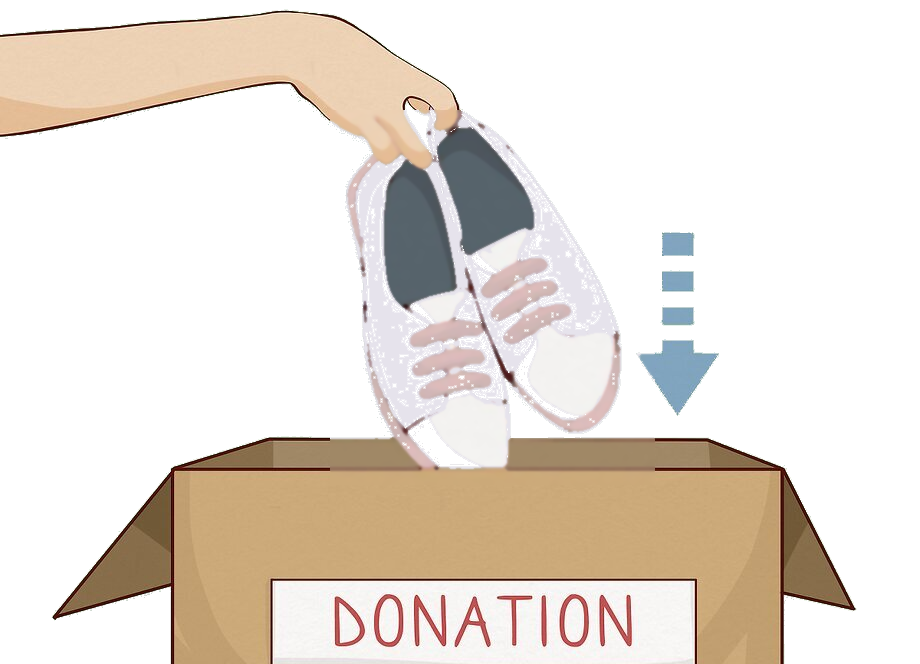
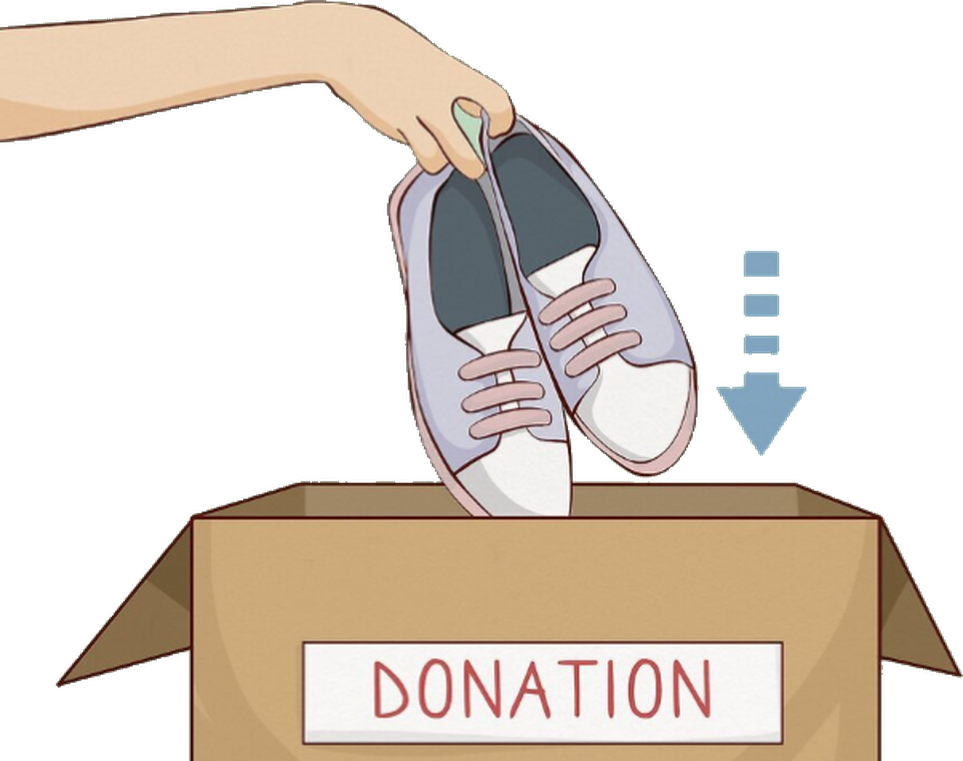
fix(spashoes): Peinture — retrait de la photo brun→noir (non dézoomable) ; illustration Don — fond vert détouré, chaussures pleines et uniformes (plus de trous)

Changed region(s): [[0.0, 0.0, 1.0, 1.0]]

diff --git a/spashoes/index.html b/spashoes/index.html
@@ -14,7 +14,7 @@
   <title>Spapoursouliers — Nettoyage, restauration &amp; cordonnerie de chaussures à Montréal</title>
   <meta name="description" content="Spa pour chaussures dans le Grand Montréal : nettoyage en profondeur, restauration, teinture et cordonnerie. Ramassage et livraison inclus. 438-449-9422." />
   <meta name="theme-color" content="#163f63" />
-  <link rel="icon" type="image/svg+xml" href="favicon.svg?v=53" />
+  <link rel="icon" type="image/svg+xml" href="favicon.svg?v=54" />
   <!-- Partage social (Open Graph + Twitter) -->
   <meta property="og:type" content="website" />
   <meta property="og:site_name" content="Spapoursouliers" />
@@ -37,7 +37,7 @@
   <link rel="preconnect" href="https://fonts.gstatic.com" crossorigin />
   <link rel="preconnect" href="https://d8j0ntlcm91z4.cloudfront.net" />
   <link href="https://fonts.googleapis.com/css2?family=Fraunces:ital,opsz,wght@0,9..144,300;0,9..144,400;0,9..144,500;0,9..144,600;1,9..144,300;1,9..144,400;1,9..144,500&family=Plus+Jakarta+Sans:wght@300;400;500;600;700&display=swap" rel="stylesheet" />
-  <link rel="stylesheet" href="styles.css?v=53" />
+  <link rel="stylesheet" href="styles.css?v=54" />
   <!-- Données structurées : référencement local (Google) -->
   <script type="application/ld+json">
   {
@@ -194,7 +194,7 @@
   <header class="site-header" id="top">
     <div class="container header-inner">
       <a href="#about" class="brand" aria-label="Spapoursouliers — notre histoire">
-        <img class="brand-logo" src="assets/img/logo.png?v=53" alt="" aria-hidden="true" width="2044" height="1144" />
+        <img class="brand-logo" src="assets/img/logo.png?v=54" alt="" aria-hidden="true" width="2044" height="1144" />
         <span class="brand-text">Spa<span class="brand-accent">poursouliers</span></span>
       </a>
 
@@ -248,10 +248,10 @@
           <div class="hero-shoes-bob">
             <span class="hero-shoes-radiance" aria-hidden="true"></span>
             <span class="hero-shoes-glow" aria-hidden="true"></span>
-            <div class="shoe shoe-main"><img src="assets/img/hero-product.png?v=53" alt="Paire de souliers vernis impeccables" data-i18n-alt="hero.alt" fetchpriority="high" /></div>
+            <div class="shoe shoe-main"><img src="assets/img/hero-product.png?v=54" alt="Paire de souliers vernis impeccables" data-i18n-alt="hero.alt" fetchpriority="high" /></div>
             <span class="hero-shoes-caustic" aria-hidden="true"></span>
             <span class="hero-shoes-bloom" aria-hidden="true"></span>
-            <img class="hero-shoes-refl" src="assets/img/hero-product.png?v=53" alt="" aria-hidden="true" />
+            <img class="hero-shoes-refl" src="assets/img/hero-product.png?v=54" alt="" aria-hidden="true" />
           </div>
         </div>
         <!-- Étincelles marines / poussière d'or qui flottent (canvas léger) -->
@@ -297,7 +297,7 @@
         <!-- Gauche : notre histoire + coupure de presse -->
         <div class="intro-side" data-anim="left">
           <figure class="about-doc">
-            <img src="assets/img/heritage-presse.jpg?v=53" alt="Article de presse sur Cristian Rotaru" data-i18n-alt="about.presseAlt" loading="lazy" />
+            <img src="assets/img/heritage-presse.jpg?v=54" alt="Article de presse sur Cristian Rotaru" data-i18n-alt="about.presseAlt" loading="lazy" />
             <figcaption data-i18n="about.heritage.presse">Cristian Rotaru, une vie au service des chaussures</figcaption>
           </figure>
           <div class="intro-text">
@@ -310,7 +310,7 @@
         <!-- Centre : logo -->
         <div class="intro-center" data-anim>
           <figure class="intro-emblem">
-            <img src="assets/img/intro-bubble.png?v=53" alt="Spapoursouliers — chaussures usées redevenues neuves" loading="lazy" />
+            <img src="assets/img/intro-bubble.png?v=54" alt="Spapoursouliers — chaussures usées redevenues neuves" loading="lazy" />
           </figure>
           <p class="intro-tagline">
             <span class="intro-l1" data-i18n="intro.line1">Donnez une nouvelle vie à vos souliers</span>
@@ -321,7 +321,7 @@
         <!-- Droite : notre mission + attestation -->
         <div class="intro-side" data-anim="right">
           <figure class="about-doc">
-            <img src="assets/img/heritage-attestation.jpg?v=53" alt="Attestation professionnelle — Québec, 2025" data-i18n-alt="about.attestAlt" loading="lazy" />
+            <img src="assets/img/heritage-attestation.jpg?v=54" alt="Attestation professionnelle — Québec, 2025" data-i18n-alt="about.attestAlt" loading="lazy" />
             <figcaption data-i18n="about.heritage.attestation">Attestation professionnelle — Québec, 2025</figcaption>
           </figure>
           <div class="intro-text">
@@ -412,11 +412,11 @@
 
         <!-- Galerie « réalisations » — vraies photos avant/après du client -->
         <div class="real-grid" data-anim>
-          <figure class="real-tile"><img src="assets/img/real/works-1.jpg?v=53" alt="Avant/après : bottines cloutées noires marquées puis ravivées et lustrées" data-i18n-alt="real.a1" loading="lazy"><figcaption data-i18n="real.t1">Bottines cloutées · ravivées</figcaption></figure>
-          <figure class="real-tile"><img src="assets/img/real/works-3.jpg?v=53" alt="Avant/après : Salomon trail couvertes de boue puis nettoyées en profondeur" data-i18n-alt="real.a3" loading="lazy"><figcaption data-i18n="real.t3">Salomon trail · nettoyage profond</figcaption></figure>
-          <figure class="real-tile"><img src="assets/img/real/works-5.jpg?v=53" alt="Avant/après : bottines Chelsea bordeaux ternies puis restaurées et lustrées" data-i18n-alt="real.a5" loading="lazy"><figcaption data-i18n="real.t5">Bottines cuir · lustrées</figcaption></figure>
-          <figure class="real-tile"><img src="assets/img/real/works-4.jpg?v=53" alt="Avant/après : derby en daim bleu usé puis ravivé" data-i18n-alt="real.a4" loading="lazy"><figcaption data-i18n="real.t4">Derby daim · ravivé</figcaption></figure>
-          <figure class="real-tile"><img src="assets/img/real/works-2.jpg?v=53" alt="Baskets Nike blanches encrassées, prêtes pour un nettoyage en profondeur" data-i18n-alt="real.a2" loading="lazy"><figcaption data-i18n="real.t2">Nike blanches · nettoyage</figcaption></figure>
+          <figure class="real-tile"><img src="assets/img/real/works-1.jpg?v=54" alt="Avant/après : bottines cloutées noires marquées puis ravivées et lustrées" data-i18n-alt="real.a1" loading="lazy"><figcaption data-i18n="real.t1">Bottines cloutées · ravivées</figcaption></figure>
+          <figure class="real-tile"><img src="assets/img/real/works-3.jpg?v=54" alt="Avant/après : Salomon trail couvertes de boue puis nettoyées en profondeur" data-i18n-alt="real.a3" loading="lazy"><figcaption data-i18n="real.t3">Salomon trail · nettoyage profond</figcaption></figure>
+          <figure class="real-tile"><img src="assets/img/real/works-5.jpg?v=54" alt="Avant/après : bottines Chelsea bordeaux ternies puis restaurées et lustrées" data-i18n-alt="real.a5" loading="lazy"><figcaption data-i18n="real.t5">Bottines cuir · lustrées</figcaption></figure>
+          <figure class="real-tile"><img src="assets/img/real/works-4.jpg?v=54" alt="Avant/après : derby en daim bleu usé puis ravivé" data-i18n-alt="real.a4" loading="lazy"><figcaption data-i18n="real.t4">Derby daim · ravivé</figcaption></figure>
+          <figure class="real-tile"><img src="assets/img/real/works-2.jpg?v=54" alt="Baskets Nike blanches encrassées, prêtes pour un nettoyage en profondeur" data-i18n-alt="real.a2" loading="lazy"><figcaption data-i18n="real.t2">Nike blanches · nettoyage</figcaption></figure>
         </div>
 
         <!-- Bande « signature » animée (remplace la galerie) -->
@@ -447,7 +447,7 @@
         <div class="blog-grid" data-anim>
           <article class="blog-card reveal-card">
             <div class="blog-media">
-              <img src="assets/img/real/real-04.jpg?v=53" alt="Derbies patinés avant/après restauration" data-i18n-alt="blog.a1" loading="lazy" />
+              <img src="assets/img/real/real-04.jpg?v=54" alt="Derbies patinés avant/après restauration" data-i18n-alt="blog.a1" loading="lazy" />
               <span class="blog-play" aria-hidden="true"><svg viewBox="0 0 24 24" fill="currentColor"><path d="M8 5v14l11-7z"/></svg></span>
               <span class="blog-soon" data-i18n="blog.soon">Vidéo bientôt en ligne</span>
             </div>
@@ -455,7 +455,7 @@
           </article>
           <article class="blog-card reveal-card">
             <div class="blog-media">
-              <img src="assets/img/real/real-02c.jpg?v=53" alt="Converse redevenues blanches après nettoyage" data-i18n-alt="blog.a2" loading="lazy" />
+              <img src="assets/img/real/real-02c.jpg?v=54" alt="Converse redevenues blanches après nettoyage" data-i18n-alt="blog.a2" loading="lazy" />
               <span class="blog-play" aria-hidden="true"><svg viewBox="0 0 24 24" fill="currentColor"><path d="M8 5v14l11-7z"/></svg></span>
               <span class="blog-soon" data-i18n="blog.soon">Vidéo bientôt en ligne</span>
             </div>
@@ -463,7 +463,7 @@
           </article>
           <article class="blog-card reveal-card">
             <div class="blog-media">
-              <img src="assets/img/real/real-11c.jpg?v=53" alt="Bottes western teintées du fauve au noir" data-i18n-alt="blog.a3" loading="lazy" />
+              <img src="assets/img/real/real-11c.jpg?v=54" alt="Bottes western teintées du fauve au noir" data-i18n-alt="blog.a3" loading="lazy" />
               <span class="blog-play" aria-hidden="true"><svg viewBox="0 0 24 24" fill="currentColor"><path d="M8 5v14l11-7z"/></svg></span>
               <span class="blog-soon" data-i18n="blog.soon">Vidéo bientôt en ligne</span>
             </div>
@@ -521,8 +521,8 @@
           <div class="feature"><span class="feature-ico"><svg viewBox="0 0 24 24" fill="none" stroke="currentColor" stroke-width="1.5" stroke-linecap="round" stroke-linejoin="round"><path d="M3 7h11v8H3zM14 10h4l3 3v2h-7"/><circle cx="7" cy="17" r="2"/><circle cx="17" cy="17" r="2"/></svg></span><h3 data-i18n="corporate.f3">Ramassage &amp; livraison planifiés</h3></div>
         </div>
         <div class="corp-gallery" data-anim>
-          <figure class="corp-shot reveal-card"><img src="assets/img/real/corp-01.jpg?v=53" alt="Collection de chaussures pour femmes disposées en cercle" data-i18n-alt="corporate.a1" loading="lazy" /></figure>
-          <figure class="corp-shot reveal-card"><img src="assets/img/real/corp-02.jpg?v=53" alt="Souliers habillés pour hommes disposés en cercle" data-i18n-alt="corporate.a2" loading="lazy" /></figure>
+          <figure class="corp-shot reveal-card"><img src="assets/img/real/corp-01.jpg?v=54" alt="Collection de chaussures pour femmes disposées en cercle" data-i18n-alt="corporate.a1" loading="lazy" /></figure>
+          <figure class="corp-shot reveal-card"><img src="assets/img/real/corp-02.jpg?v=54" alt="Souliers habillés pour hommes disposés en cercle" data-i18n-alt="corporate.a2" loading="lazy" /></figure>
         </div>
         <div class="center" data-anim><a href="#contact" class="btn btn-primary" data-i18n="corporate.cta">Demander une offre</a></div>
       </div>
@@ -538,7 +538,7 @@
         </header>
         <div class="charity-inner">
           <figure class="charity-art" data-anim="left">
-            <img src="assets/img/real/charity-don.png?v=53" alt="Illustration : une main dépose une paire de chaussures dans une boîte de dons" data-i18n-alt="charity.artAlt" loading="lazy" />
+            <img src="assets/img/real/charity-don.png?v=54" alt="Illustration : une main dépose une paire de chaussures dans une boîte de dons" data-i18n-alt="charity.artAlt" loading="lazy" />
           </figure>
           <div class="charity-side">
             <div class="feature-row" data-anim>
@@ -721,8 +721,8 @@
   </div>
 
   <!-- GSAP auto-hébergé : l'animation ne dépend plus d'un CDN externe -->
-  <script src="assets/js/gsap.min.js?v=53"></script>
-  <script src="assets/js/ScrollTrigger.min.js?v=53"></script>
-  <script src="app.js?v=53"></script>
+  <script src="assets/js/gsap.min.js?v=54"></script>
+  <script src="assets/js/ScrollTrigger.min.js?v=54"></script>
+  <script src="app.js?v=54"></script>
 </body>
 </html>

diff --git a/spashoes/app.js b/spashoes/app.js
@@ -653,7 +653,7 @@ const SICONS = {
 const SERVICES = [
   { key:'cleaning', ico:'sparkle', ba:true, layout:'wide3', photos:['real/real-02c.jpg','real/real-03c.jpg','real/real-01c.jpg'],
     items:['services.cleaning.1','services.cleaning.2','services.cleaning.3','services.cleaning.4'] },
-  { key:'dye', ico:'brush', ba:true, photos:['real/dye-beige.jpg','real/dye-brun.jpg'],
+  { key:'dye', ico:'brush', ba:true, photos:['real/dye-beige.jpg'],
     items:['services.dye.1'] },
   { key:'repairs', ico:'hammer', ba:false, layout:'hero4', photos:['real/repair-03.jpg','real/repair-04.jpg','real/repair-01.jpg','real/repair-02.jpg'],
     items:['services.repairs.1','services.repairs.2'] },
@@ -893,7 +893,7 @@ function renderServices(lang){
     const shots = s.photos.map((p,pi)=>{
       const ar = (s.ars && s.ars[pi]) ? ` style="aspect-ratio:${s.ars[pi]}"` : '';
       const fill = s.stack ? ' sc-shot--fill' : '';
-      return `<figure class="sc-shot${s.ba?' is-ba':''}${fill}"${ar}><img src="assets/img/${p}?v=53" alt="${title}" loading="lazy">${s.ba?`<span class="sc-mini-tag">${before} · ${after}</span>`:''}</figure>`;
+      return `<figure class="sc-shot${s.ba?' is-ba':''}${fill}"${ar}><img src="assets/img/${p}?v=54" alt="${title}" loading="lazy">${s.ba?`<span class="sc-mini-tag">${before} · ${after}</span>`:''}</figure>`;
     }).join('');
     return `
     <div class="service-cell reveal-card">
@@ -941,12 +941,12 @@ function openServiceModal(key, sourceCard){
   modal.querySelector('.svm-ico').innerHTML=SICONS[s.ico]||'';
   modal.querySelector('.svm-title').textContent=t('services.'+s.key+'.title',lang);
   modal.querySelector('.svm-chips').innerHTML=s.items.map(k=>`<li>${t(k,lang)}</li>`).join('');
-  modal.querySelector('.svm-ba-img').src='assets/img/'+s.ba+'?v=53';
+  modal.querySelector('.svm-ba-img').src='assets/img/'+s.ba+'?v=54';
   modal.querySelector('.svm-ba-img').alt=t('services.'+s.key+'.title',lang)+' — '+t('real.tag',lang);
   modal.querySelector('.svm-before').textContent=t('works.before',lang);
   modal.querySelector('.svm-after').textContent=t('works.after',lang);
   const gal=modal.querySelector('.svm-gallery');
-  gal.innerHTML=(s.gallery||[]).map(p=>`<figure class="svm-tile"><img src="assets/img/${p}?v=53" alt="${t('real.tag',lang)}" loading="lazy"></figure>`).join('');
+  gal.innerHTML=(s.gallery||[]).map(p=>`<figure class="svm-tile"><img src="assets/img/${p}?v=54" alt="${t('real.tag',lang)}" loading="lazy"></figure>`).join('');
   modal.hidden=false; document.body.style.overflow='hidden';
   requestAnimationFrame(()=>modal.classList.add('is-open'));
   /* animation de déploiement 3D */

diff --git a/spashoes/styles.css b/spashoes/styles.css
@@ -382,8 +382,8 @@ section[id], header[id] { scroll-margin-top: calc(var(--hdr) + 14px); }
 @keyframes shoeRadiance { 0%,100% { transform: translate(-50%,-50%) scale(.95); } 50% { transform: translate(-50%,-50%) scale(1.07); } }
 /* lumière de l'eau (caustiques) qui baigne les souliers en profondeur — montée pilotée JS */
 .hero-shoes-caustic { position: absolute; inset: 0; z-index: 2; pointer-events: none; mix-blend-mode: screen; opacity: 0;
-  -webkit-mask: url("assets/img/hero-product.png?v=53") center top / 100% auto no-repeat;
-          mask: url("assets/img/hero-product.png?v=53") center top / 100% auto no-repeat;
+  -webkit-mask: url("assets/img/hero-product.png?v=54") center top / 100% auto no-repeat;
+          mask: url("assets/img/hero-product.png?v=54") center top / 100% auto no-repeat;
   background:
     radial-gradient(42% 32% at 32% 38%, rgba(150,212,236,.55), transparent 60%),
     radial-gradient(36% 26% at 72% 60%, rgba(120,190,224,.5), transparent 62%),